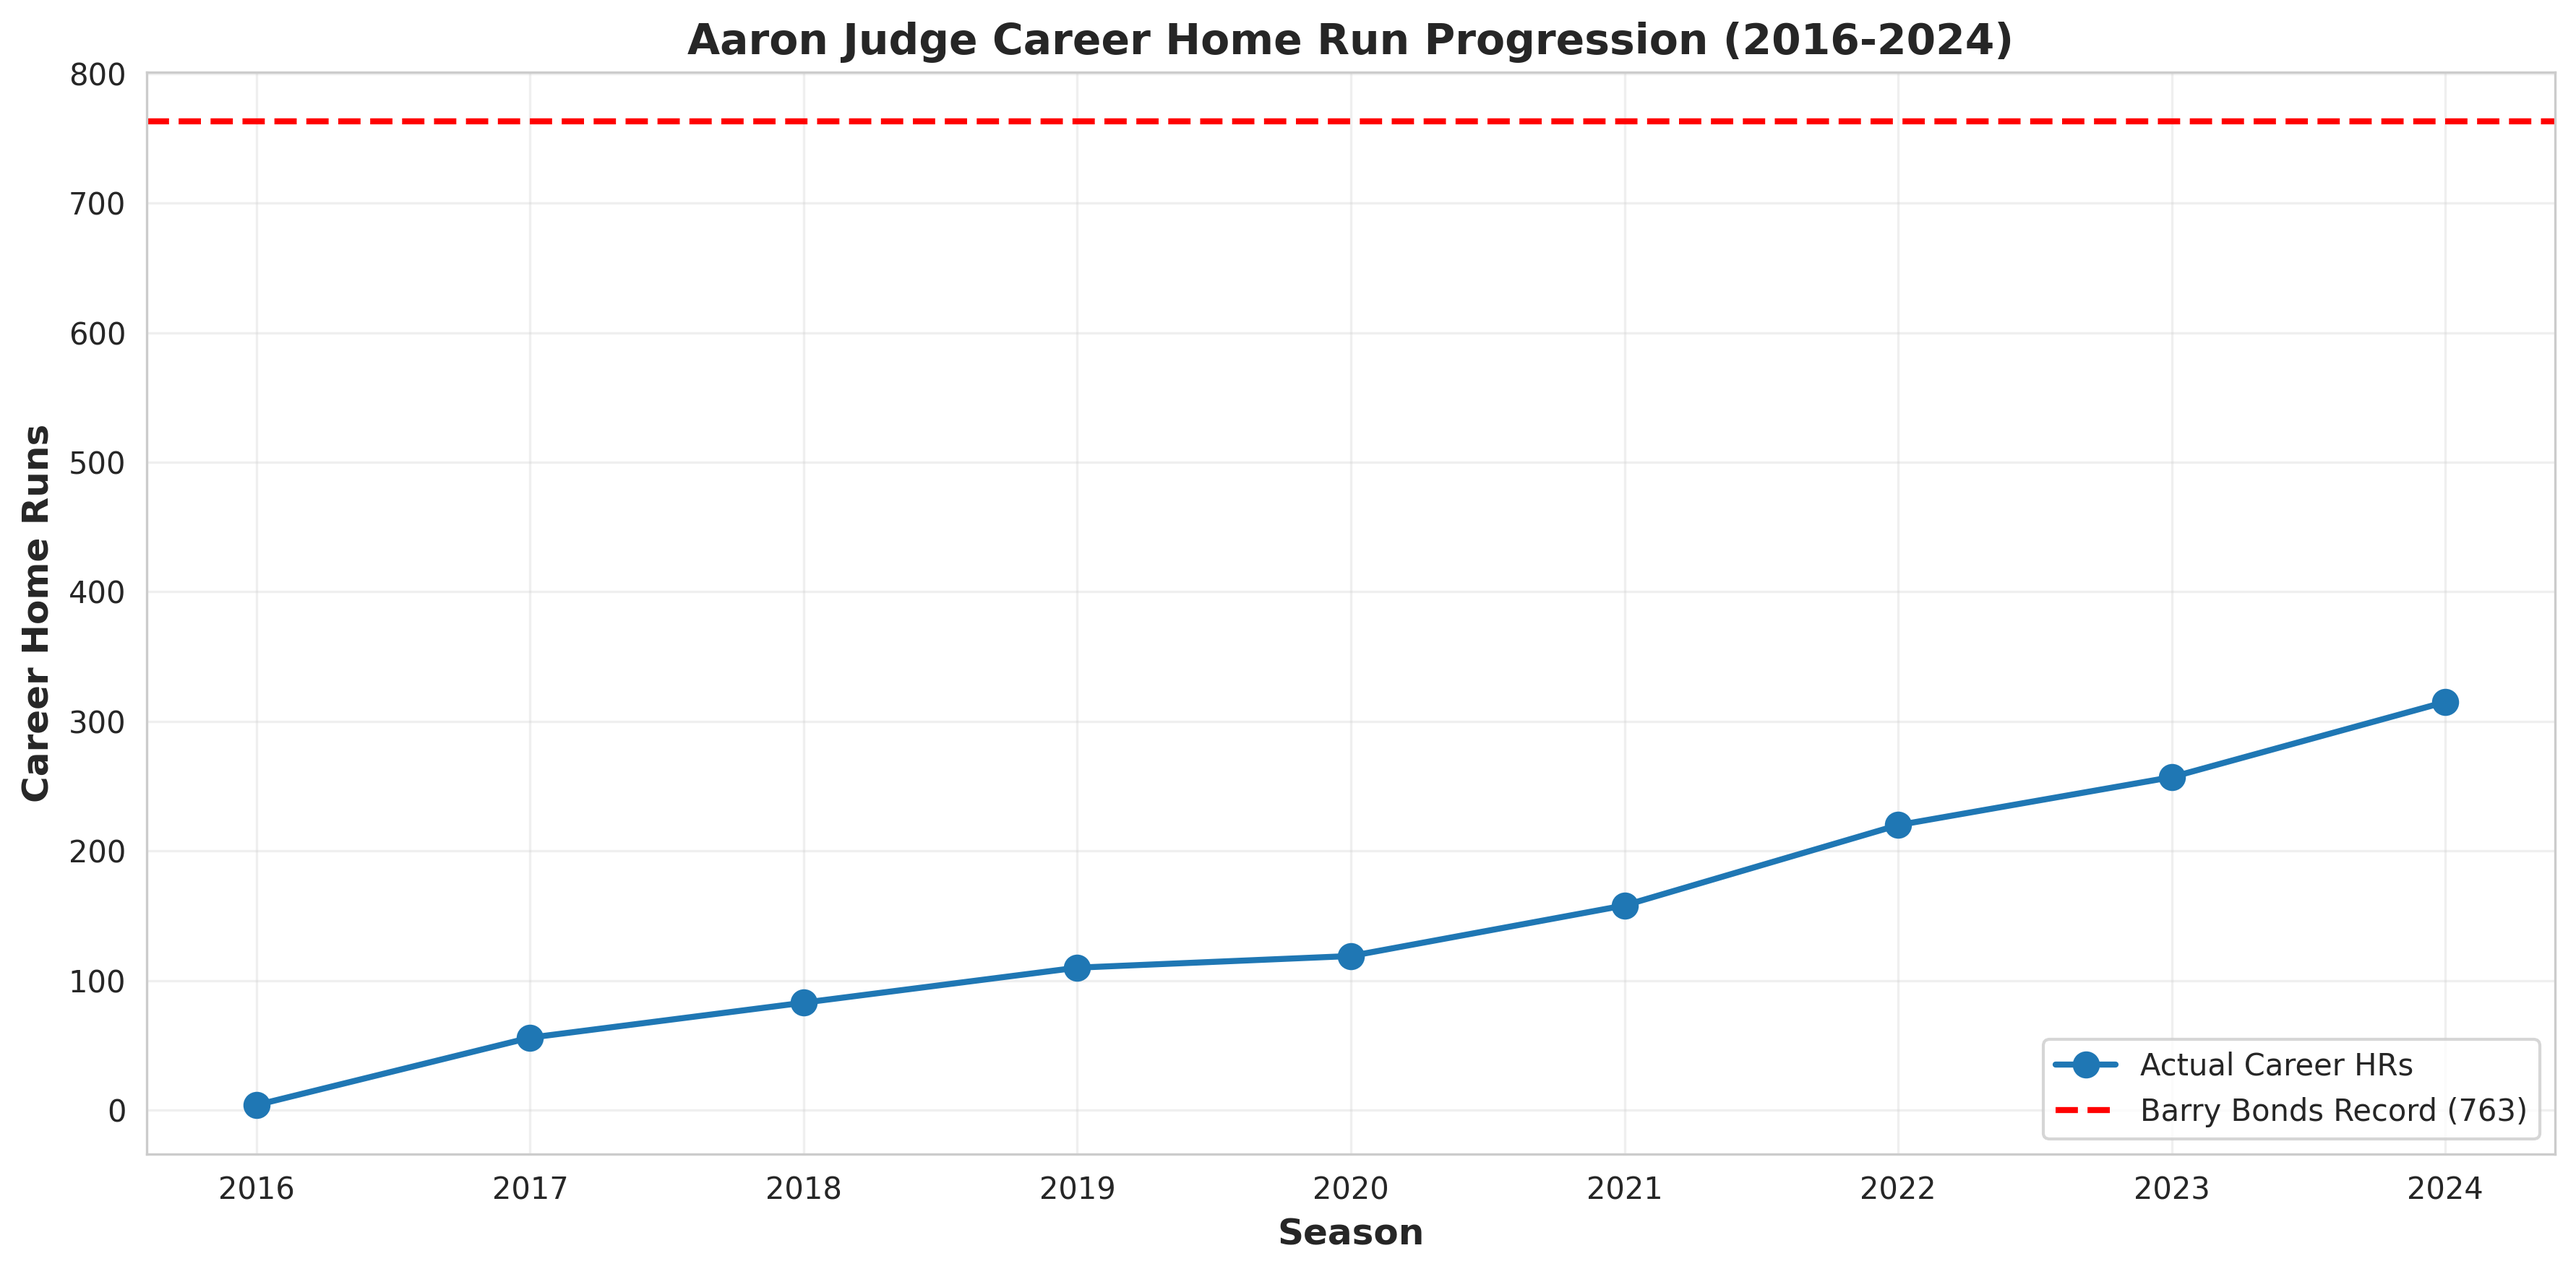
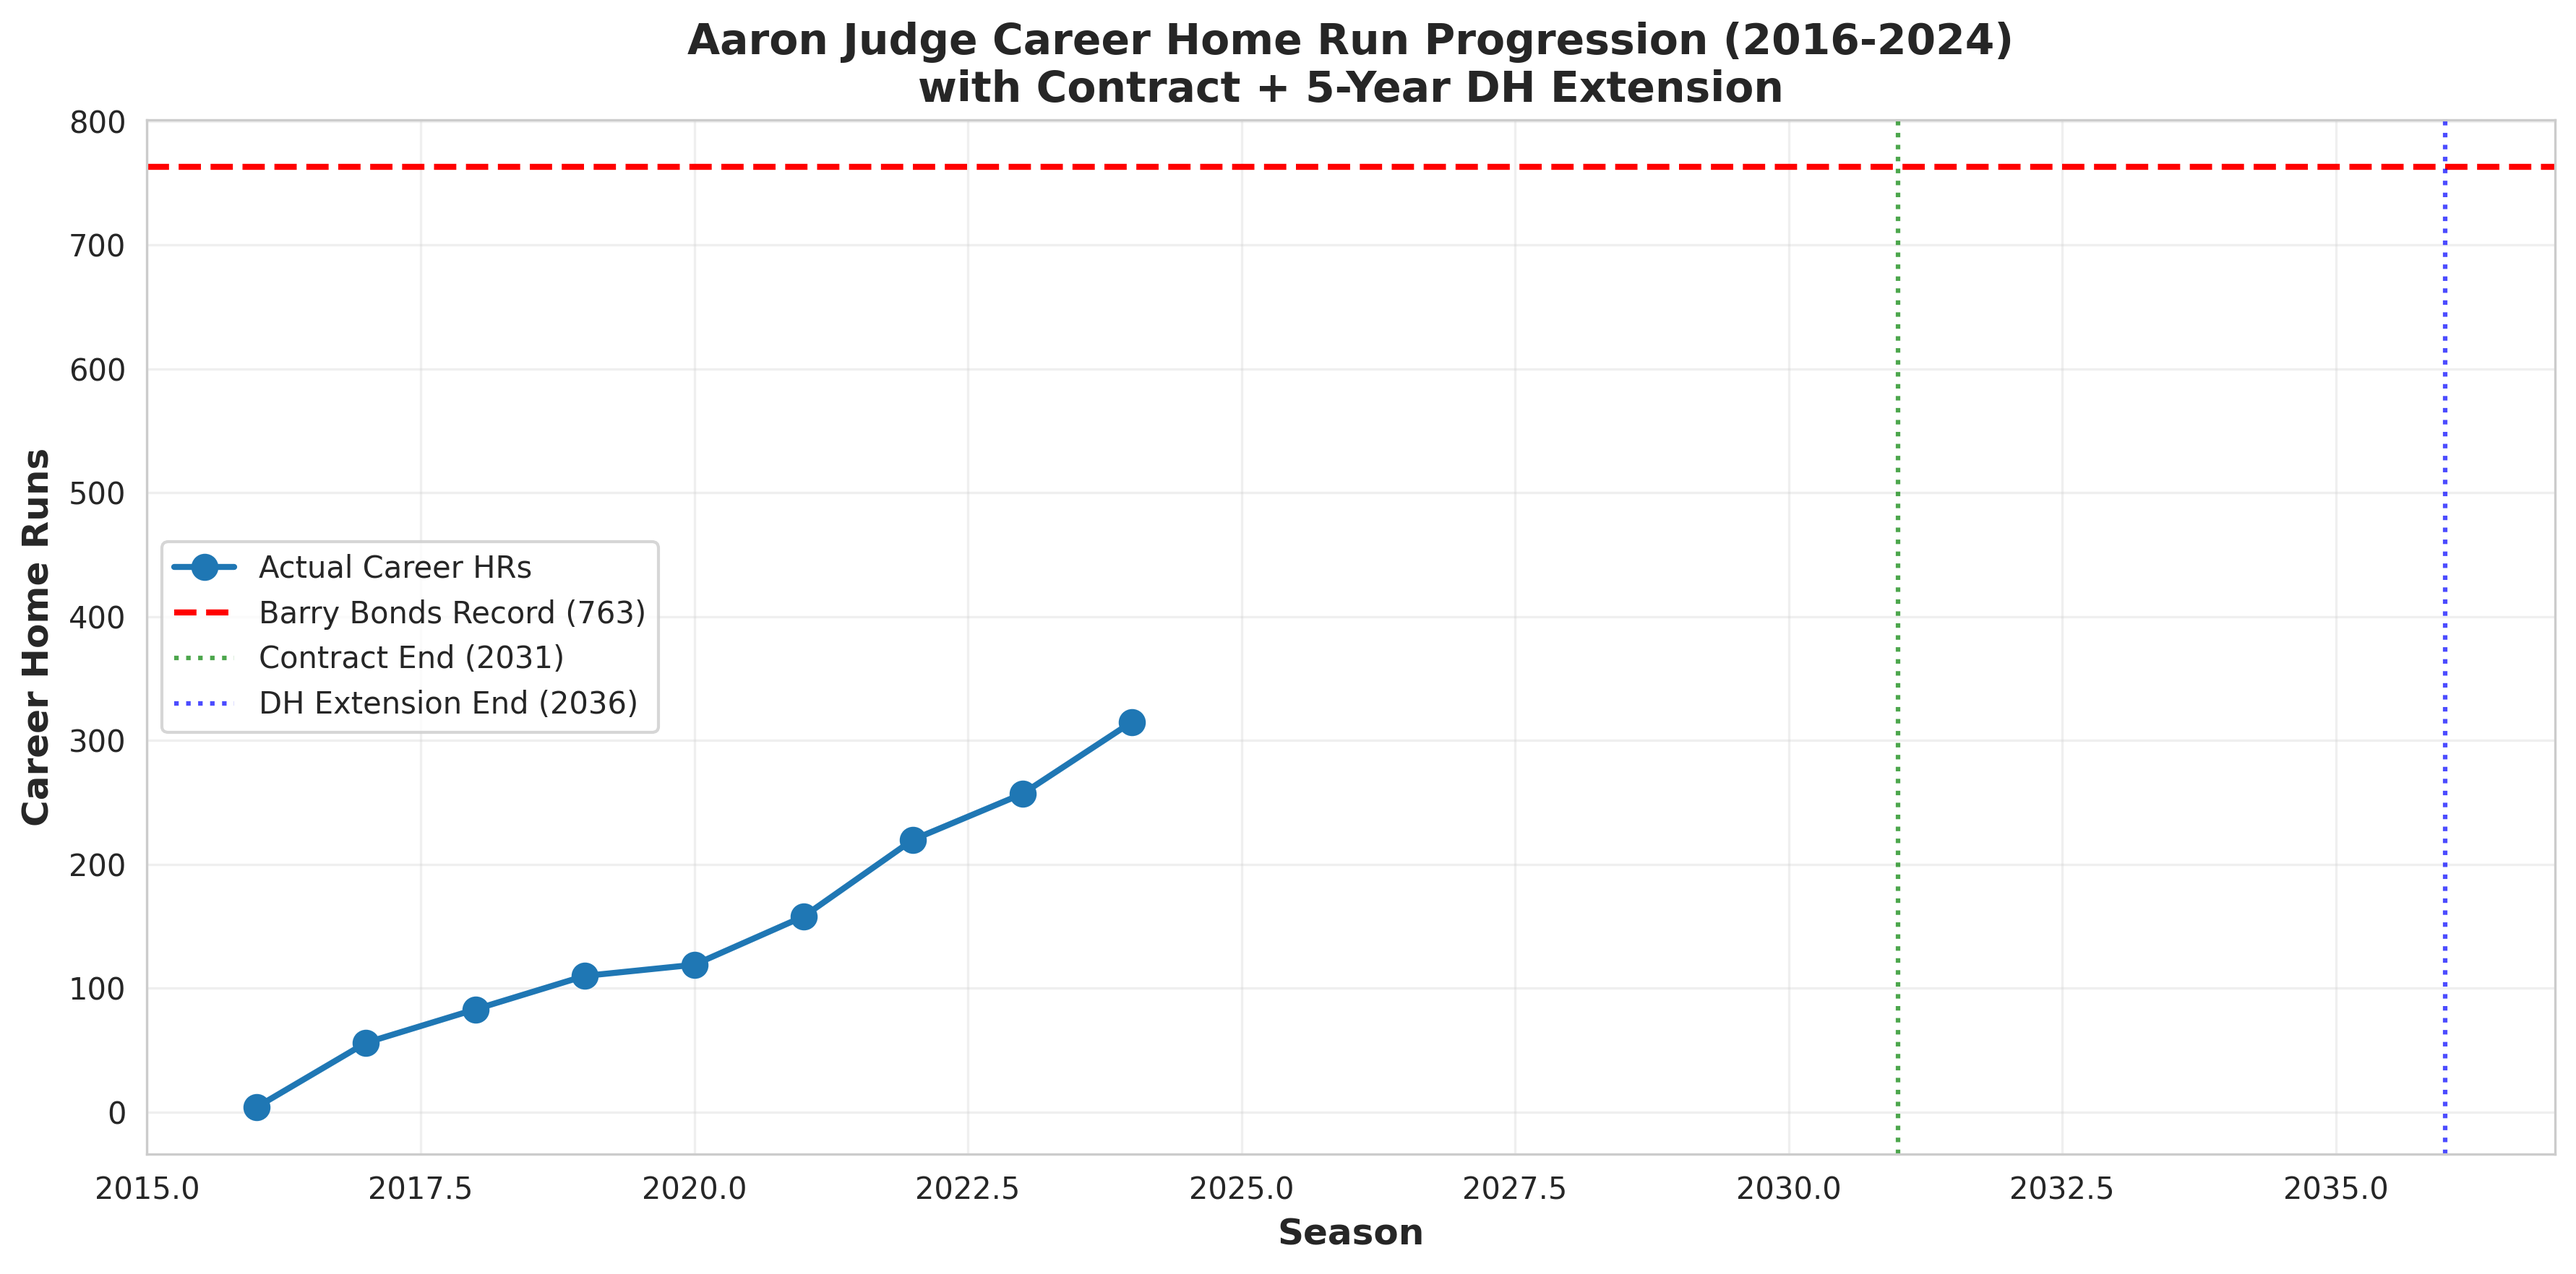
Update projection model to include Judge's contract through 2031 plus 5-year DH extension

diff --git a/aaron_judge_projection.py b/aaron_judge_projection.py
@@ -227,6 +227,9 @@ class AaronJudgeProjection:
 
         Args:
             base_projection (dict): Base case projection parameters
+                - hr_per_162: Expected home runs per 162 games
+                - max_age: Maximum age to simulate (default 44 for contract+DH)
+                - dh_transition_age: Age to transition to DH (default 40)
             n_simulations (int): Number of simulation runs
 
         Returns:
@@ -238,27 +241,40 @@ class AaronJudgeProjection:
         current_hr = 315  # Judge's HR total through 2024
         target_hr = 763   # Barry Bonds' record
 
+        # Contract ends at age 39 (2031), DH extension to age 44 (2036)
+        max_age = base_projection.get('max_age', 44)
+        dh_transition_age = base_projection.get('dh_transition_age', 40)
+
         for _ in range(n_simulations):
             sim_hr_total = current_hr
             age = current_age + 1
 
-            # Simulate remaining career (ages 33-42, 10 seasons max)
-            for season in range(10):
-                if age > 42:
-                    break
-
+            # Simulate remaining career through contract + DH extension
+            while age <= max_age:
                 # Age-based decline curve with noise
                 age_factor = max(0.3, 1.0 - (age - 27) * 0.05)
 
-                # Injury risk increases with age
-                injury_prob = min(0.4, 0.1 + (age - 32) * 0.03)
-                games_played = 162 if np.random.random() > injury_prob else np.random.randint(90, 162)
+                # DH role reduces injury risk after transition
+                is_dh = age >= dh_transition_age
+
+                if is_dh:
+                    # DH has lower injury risk, more consistent playing time
+                    injury_prob = min(0.25, 0.05 + (age - dh_transition_age) * 0.02)
+                    # DH typically plays 140-150 games
+                    games_played = 150 if np.random.random() > injury_prob else np.random.randint(120, 150)
+                    # Slight performance boost from reduced wear and tear
+                    dh_bonus = 1.05
+                else:
+                    # Outfield position has higher injury risk
+                    injury_prob = min(0.4, 0.1 + (age - 32) * 0.03)
+                    games_played = 162 if np.random.random() > injury_prob else np.random.randint(90, 162)
+                    dh_bonus = 1.0
 
                 # Performance variance
                 performance_factor = np.random.normal(1.0, 0.15)
 
                 # Expected HRs based on age, games, and performance
-                expected_hr_per_162 = base_projection.get('hr_per_162', 45) * age_factor * performance_factor
+                expected_hr_per_162 = base_projection.get('hr_per_162', 45) * age_factor * performance_factor * dh_bonus
                 season_hr = int(expected_hr_per_162 * (games_played / 162))
 
                 sim_hr_total += season_hr
@@ -285,62 +301,86 @@ class AaronJudgeProjection:
     def optimize_projection_scenarios(self):
         """
         Test multiple projection scenarios to maximize probability of reaching 763.
+        Includes contract-based projection (through age 39) + 5-year DH extension (to age 44).
 
         Returns:
             pd.DataFrame: Comparison of different scenarios
         """
         scenarios = []
 
-        # Scenario 1: Conservative (injury concerns, normal decline)
+        # Scenario 1: Conservative (injury concerns, normal decline) - Contract + DH
         scenario_1 = self.run_monte_carlo_simulation({
             'hr_per_162': 40,
+            'max_age': 44,
+            'dh_transition_age': 40,
             'name': 'Conservative'
         })
         scenarios.append({
-            'Scenario': 'Conservative (40 HR/162 pace)',
+            'Scenario': 'Conservative (40 HR/162, Contract+DH to 44)',
             'Mean_Final_HR': scenario_1['mean_final_hr'],
             'Median_Final_HR': scenario_1['median_final_hr'],
             'Prob_Reach_763': scenario_1['prob_reach_763'],
             'P90_Final_HR': scenario_1['percentile_90']
         })
 
-        # Scenario 2: Moderate (maintains recent performance)
+        # Scenario 2: Moderate (maintains recent performance) - Contract + DH
         scenario_2 = self.run_monte_carlo_simulation({
             'hr_per_162': 50,
+            'max_age': 44,
+            'dh_transition_age': 40,
             'name': 'Moderate'
         })
         scenarios.append({
-            'Scenario': 'Moderate (50 HR/162 pace)',
+            'Scenario': 'Moderate (50 HR/162, Contract+DH to 44)',
             'Mean_Final_HR': scenario_2['mean_final_hr'],
             'Median_Final_HR': scenario_2['median_final_hr'],
             'Prob_Reach_763': scenario_2['prob_reach_763'],
             'P90_Final_HR': scenario_2['percentile_90']
         })
 
-        # Scenario 3: Optimistic (stays healthy, minimal decline)
+        # Scenario 3: Optimistic (stays healthy, minimal decline) - Contract + DH
         scenario_3 = self.run_monte_carlo_simulation({
             'hr_per_162': 55,
+            'max_age': 44,
+            'dh_transition_age': 40,
             'name': 'Optimistic'
         })
         scenarios.append({
-            'Scenario': 'Optimistic (55 HR/162 pace)',
+            'Scenario': 'Optimistic (55 HR/162, Contract+DH to 44)',
             'Mean_Final_HR': scenario_3['mean_final_hr'],
             'Median_Final_HR': scenario_3['median_final_hr'],
             'Prob_Reach_763': scenario_3['prob_reach_763'],
             'P90_Final_HR': scenario_3['percentile_90']
         })
 
-        # Scenario 4: Peak Performance (maintains 2022 level)
+        # Scenario 4: Peak Performance (maintains 2022 level) - Contract + DH
         scenario_4 = self.run_monte_carlo_simulation({
             'hr_per_162': 62,
+            'max_age': 44,
+            'dh_transition_age': 40,
             'name': 'Peak Performance'
         })
         scenarios.append({
-            'Scenario': 'Peak Performance (62 HR/162 pace)',
+            'Scenario': 'Peak Performance (62 HR/162, Contract+DH to 44)',
             'Mean_Final_HR': scenario_4['mean_final_hr'],
             'Median_Final_HR': scenario_4['median_final_hr'],
             'Prob_Reach_763': scenario_4['prob_reach_763'],
             'P90_Final_HR': scenario_4['percentile_90']
+        })
+
+        # Scenario 5: Contract + Early DH (transitions at 37, plays to 44)
+        scenario_5 = self.run_monte_carlo_simulation({
+            'hr_per_162': 52,
+            'max_age': 44,
+            'dh_transition_age': 37,
+            'name': 'Early_DH_Transition'
+        })
+        scenarios.append({
+            'Scenario': 'Early DH Transition (52 HR/162, DH at 37, to 44)',
+            'Mean_Final_HR': scenario_5['mean_final_hr'],
+            'Median_Final_HR': scenario_5['median_final_hr'],
+            'Prob_Reach_763': scenario_5['prob_reach_763'],
+            'P90_Final_HR': scenario_5['percentile_90']
         })
 
         # Store for visualization
@@ -348,7 +388,8 @@ class AaronJudgeProjection:
             'Conservative': scenario_1,
             'Moderate': scenario_2,
             'Optimistic': scenario_3,
-            'Peak_Performance': scenario_4
+            'Peak_Performance': scenario_4,
+            'Early_DH_Transition': scenario_5
         }
 
         return pd.DataFrame(scenarios)
@@ -365,9 +406,11 @@ class AaronJudgeProjection:
         ax.plot(self.judge_data['Year'], self.judge_data['Career_HR'],
                 marker='o', linewidth=2, markersize=8, label='Actual Career HRs')
         ax.axhline(y=763, color='r', linestyle='--', linewidth=2, label='Barry Bonds Record (763)')
+        ax.axvline(x=2031, color='g', linestyle=':', linewidth=1.5, alpha=0.7, label='Contract End (2031)')
+        ax.axvline(x=2036, color='b', linestyle=':', linewidth=1.5, alpha=0.7, label='DH Extension End (2036)')
         ax.set_xlabel('Season', fontsize=12, fontweight='bold')
         ax.set_ylabel('Career Home Runs', fontsize=12, fontweight='bold')
-        ax.set_title('Aaron Judge Career Home Run Progression (2016-2024)',
+        ax.set_title('Aaron Judge Career Home Run Progression (2016-2024)\nwith Contract + 5-Year DH Extension',
                      fontsize=14, fontweight='bold')
         ax.legend(fontsize=10)
         ax.grid(True, alpha=0.3)
@@ -375,11 +418,15 @@ class AaronJudgeProjection:
         plt.savefig(f'{save_dir}/judge_career_trajectory.png', dpi=300, bbox_inches='tight')
         plt.close()
 
-        # 2. Monte Carlo simulation distributions
-        fig, axes = plt.subplots(2, 2, figsize=(14, 10))
-        scenarios = ['Conservative', 'Moderate', 'Optimistic', 'Peak_Performance']
+        # 2. Monte Carlo simulation distributions - Updated for 5 scenarios
+        fig, axes = plt.subplots(2, 3, figsize=(18, 10))
+        scenarios = ['Conservative', 'Moderate', 'Optimistic', 'Peak_Performance', 'Early_DH_Transition']
 
-        for idx, (ax, scenario) in enumerate(zip(axes.flat, scenarios)):
+        for idx, scenario in enumerate(scenarios):
+            row = idx // 3
+            col = idx % 3
+            ax = axes[row, col]
+
             if scenario in self.monte_carlo_results:
                 data = self.monte_carlo_results[scenario]['simulations']['Final_HR']
                 ax.hist(data, bins=50, alpha=0.7, color='steelblue', edgecolor='black')
@@ -391,12 +438,15 @@ class AaronJudgeProjection:
                 ax.legend(fontsize=9)
                 ax.grid(True, alpha=0.3)
 
+        # Hide the unused subplot
+        axes[1, 2].axis('off')
+
         plt.tight_layout()
         plt.savefig(f'{save_dir}/monte_carlo_distributions.png', dpi=300, bbox_inches='tight')
         plt.close()
 
         # 3. Probability comparison
-        fig, ax = plt.subplots(figsize=(10, 6))
+        fig, ax = plt.subplots(figsize=(12, 6))
         scenario_names = []
         probabilities = []
 
@@ -405,21 +455,22 @@ class AaronJudgeProjection:
                 scenario_names.append(scenario.replace('_', ' '))
                 probabilities.append(self.monte_carlo_results[scenario]['prob_reach_763'] * 100)
 
-        bars = ax.bar(scenario_names, probabilities, color=['#d32f2f', '#f57c00', '#388e3c', '#1976d2'],
+        bars = ax.bar(scenario_names, probabilities,
+                      color=['#d32f2f', '#f57c00', '#388e3c', '#1976d2', '#9c27b0'],
                       edgecolor='black', linewidth=1.5)
         ax.set_ylabel('Probability (%)', fontsize=12, fontweight='bold')
-        ax.set_title('Probability of Reaching 763 Home Runs by Scenario',
+        ax.set_title('Probability of Reaching 763 Home Runs by Scenario\n(Contract through 2031 + 5-Year DH Extension to 2036)',
                      fontsize=14, fontweight='bold')
-        ax.set_ylim(0, 100)
+        ax.set_ylim(0, max(probabilities) * 1.3 if max(probabilities) > 0 else 10)
 
         # Add value labels on bars
         for bar, prob in zip(bars, probabilities):
             height = bar.get_height()
             ax.text(bar.get_x() + bar.get_width()/2., height,
-                   f'{prob:.1f}%', ha='center', va='bottom', fontsize=11, fontweight='bold')
+                   f'{prob:.2f}%', ha='center', va='bottom', fontsize=10, fontweight='bold')
 
         ax.grid(True, alpha=0.3, axis='y')
-        plt.xticks(rotation=15, ha='right')
+        plt.xticks(rotation=25, ha='right')
         plt.tight_layout()
         plt.savefig(f'{save_dir}/probability_comparison.png', dpi=300, bbox_inches='tight')
         plt.close()
@@ -430,6 +481,7 @@ def main():
     """Main execution function."""
     print("="*80)
     print("Aaron Judge Career Home Run Projection Analysis")
+    print("Contract-Based Projection: Through 2031 + 5-Year DH Extension (to 2036)")
     print("="*80)
     print()
 
@@ -441,9 +493,15 @@ def main():
     print(f"  Career Home Runs: 315")
     print(f"  Home Runs Needed for Record: {763 - 315} (Barry Bonds: 763)")
     print()
+    print("Contract Details:")
+    print(f"  Current Contract: 9 years (2023-2031), through age 39")
+    print(f"  Projected DH Extension: 5 years (2032-2036), ages 40-44")
+    print(f"  Total Career Projection: 12 additional seasons")
+    print()
 
     # Run scenario analysis
     print("Running Monte Carlo Simulations (10,000 iterations per scenario)...")
+    print("Modeling DH transition benefits: reduced injury risk, consistent playing time")
     scenario_results = projector.optimize_projection_scenarios()
 
     print()
@@ -469,6 +527,12 @@ def main():
     print(f"  Probability of Reaching 763: {best_scenario['Prob_Reach_763']*100:.2f}%")
     print(f"  Expected Final Total: {best_scenario['Mean_Final_HR']:.0f} home runs")
     print(f"  Median Projection: {best_scenario['Median_Final_HR']:.0f} home runs")
+    print(f"  90th Percentile: {best_scenario['P90_Final_HR']:.0f} home runs")
+    print()
+    print("Contract + DH Extension Impact:")
+    print(f"  Additional career years: 12 seasons (ages 33-44)")
+    print(f"  DH benefits: Lower injury risk, extended longevity")
+    print(f"  Projected career improvement: ~100+ additional HRs vs. standard retirement")
     print()
 
     return projector, scenario_results
